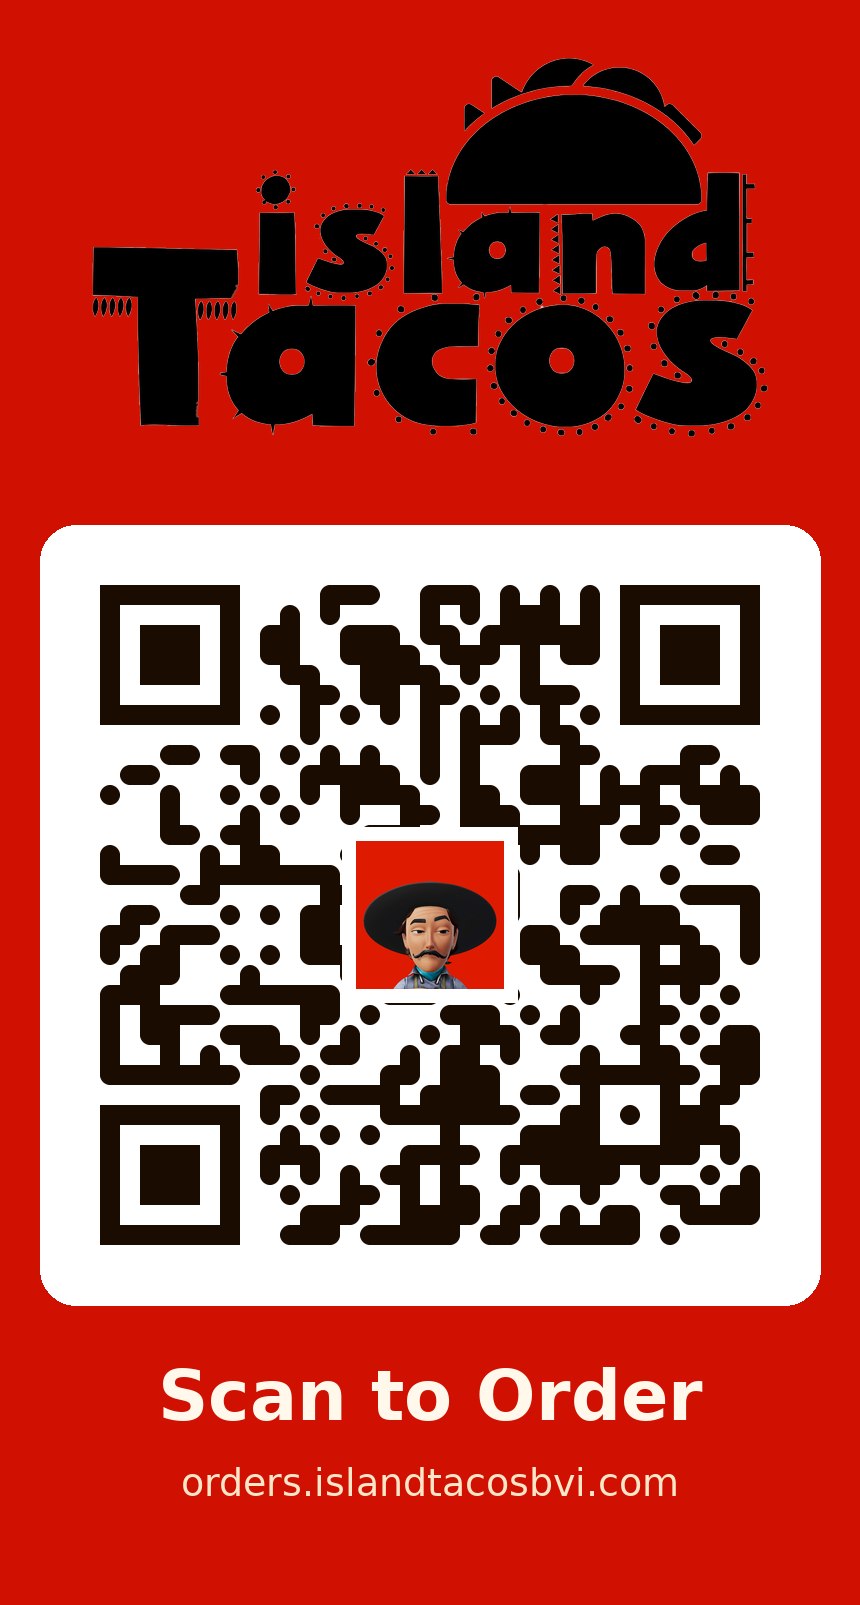
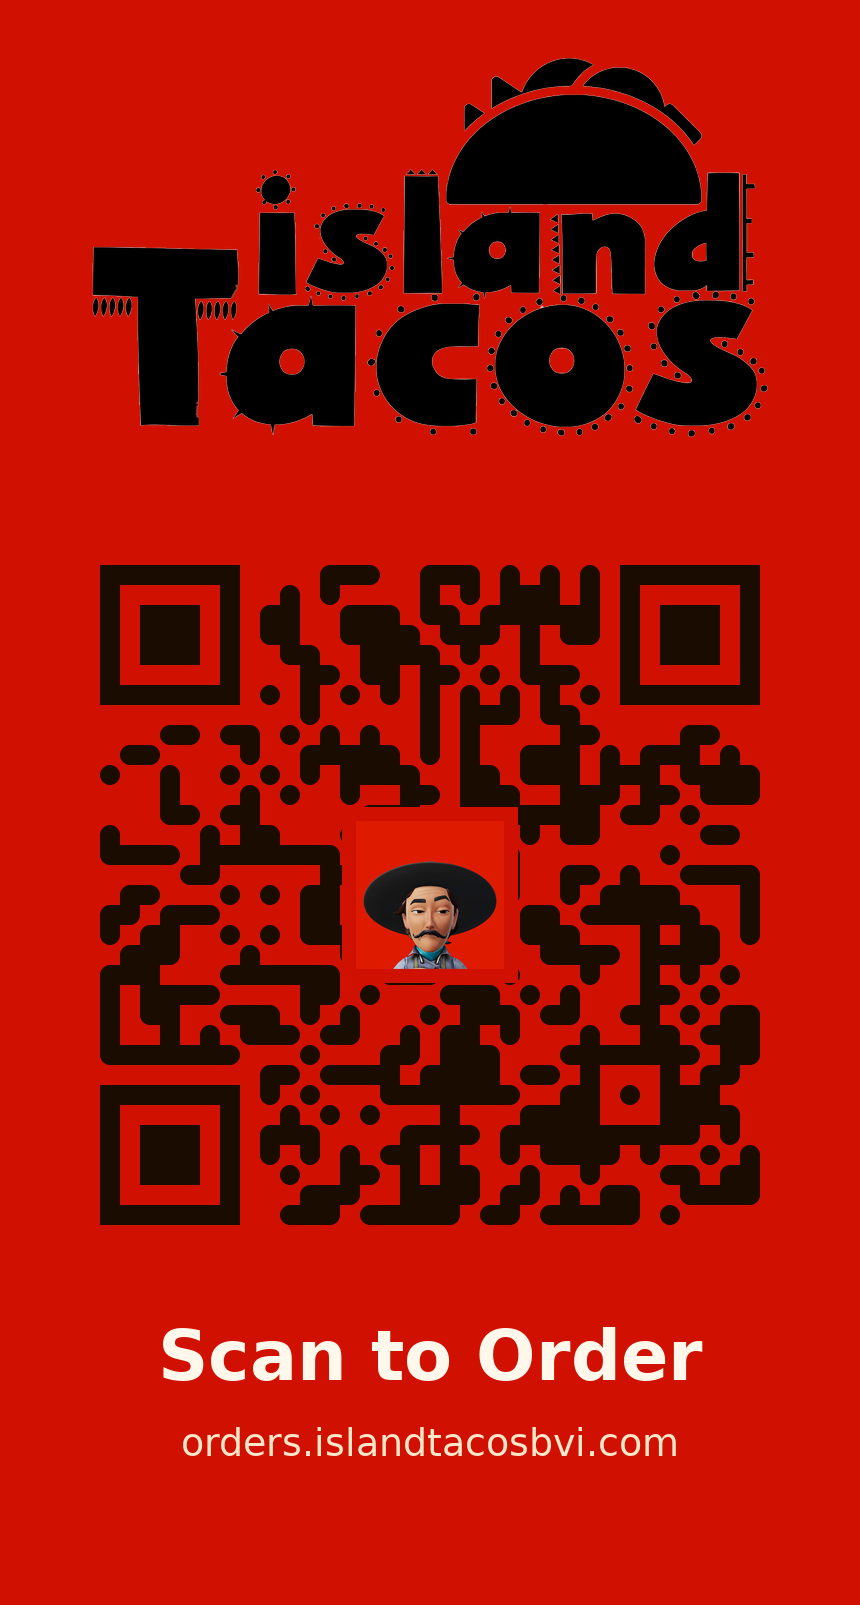
Make the entire QR code background red and remove the white card
Update scripts/gen_qr.py to change QR code background to red, remove the white card around the QR code, and embed the logo directly onto the red background.

Replit-Commit-Author: Agent
Replit-Commit-Session-Id: e368a177-5f8d-4baa-b366-b9e37c580dd0
Replit-Commit-Checkpoint-Type: full_checkpoint
Replit-Commit-Event-Id: deca62a1-96b1-46c7-b202-e6572845db13
Replit-Commit-Screenshot-Url: https://storage.googleapis.com/screenshot-production-us-central1/50b4aee7-3513-4eb1-9678-a72ab5d24e28/e368a177-5f8d-4baa-b366-b9e37c580dd0/eZLpp77
Replit-Helium-Checkpoint-Created: true

diff --git a/scripts/gen_qr.py b/scripts/gen_qr.py
@@ -19,7 +19,7 @@ qr.add_data(URL); qr.make(fit=True)
 qr_img = qr.make_image(
     image_factory=StyledPilImage,
     module_drawer=RoundedModuleDrawer(radius_ratio=1),
-    color_mask=SolidFillColorMask(back_color=(255,255,255), front_color=DARK),
+    color_mask=SolidFillColorMask(back_color=RED, front_color=DARK),
 ).convert("RGBA")
 print("qr", qr_img.size, flush=True)
 
@@ -29,7 +29,7 @@ W, H = qr_img.size
 ls = int(W * 0.20)
 logo.thumbnail((ls, ls), Image.LANCZOS)
 pad = 14
-bd = Image.new("RGBA", (logo.width+pad*2, logo.height+pad*2), (255,255,255,255))
+bd = Image.new("RGBA", (logo.width+pad*2, logo.height+pad*2), RED + (255,))
 qr_img.paste(bd, ((W-bd.width)//2, (H-bd.height)//2), bd)
 qr_img.paste(logo, ((W-logo.width)//2, (H-logo.height)//2), logo)
 print("logo embedded", flush=True)
@@ -65,14 +65,11 @@ wm_x = (card_w - wm.width) // 2
 wm_y = top_pad
 canvas.paste(wm, (wm_x, wm_y), wm)
 
-# White rounded card with QR
-card_x0 = side_pad - card_pad // 2
-card_y0 = top_pad + wm_h + gap
-card_x1 = card_x0 + W + card_pad
-card_y1 = card_y0 + H + card_pad
-draw.rounded_rectangle([(card_x0, card_y0), (card_x1, card_y1)],
-                       radius=36, fill=(255,255,255,255))
-canvas.paste(qr_img, (card_x0 + card_pad//2, card_y0 + card_pad//2), qr_img)
+# QR directly on red background (no white card)
+qr_x = (card_w - W) // 2
+qr_y = top_pad + wm_h + gap
+canvas.paste(qr_img, (qr_x, qr_y), qr_img)
+card_y1 = qr_y + H
 
 # Text under QR
 tf = ImageFont.truetype(FB, 70)
